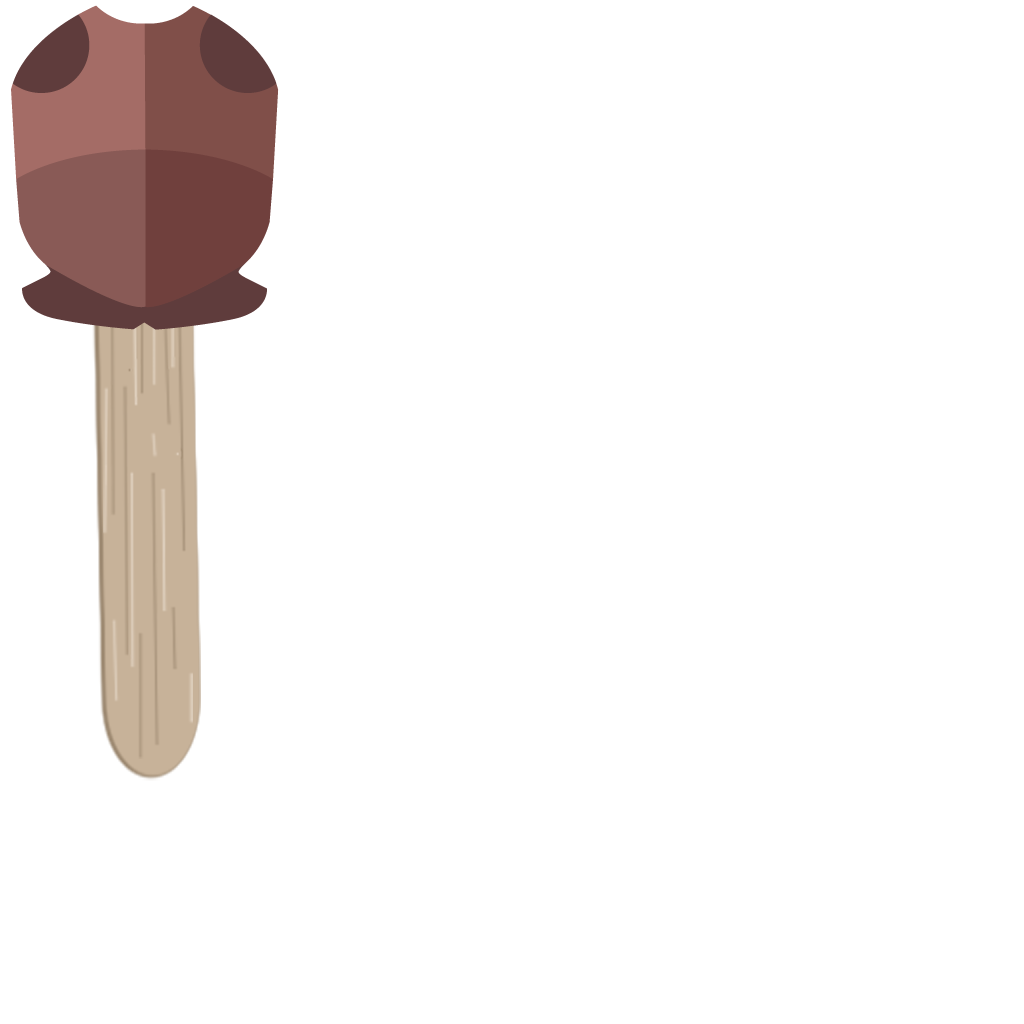
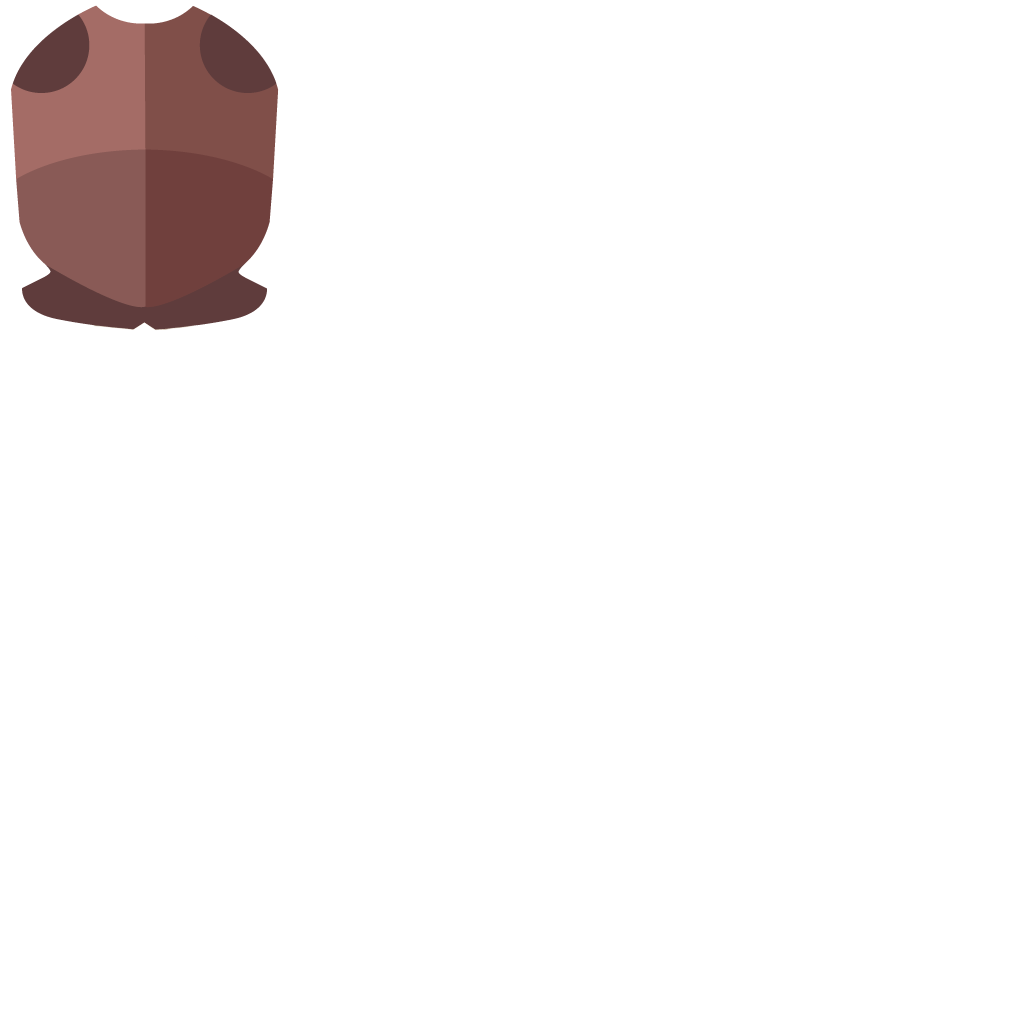
fixed up puppet white a bit

Changed region(s): [[0.0938, 0.3125, 0.2188, 0.7812]]

diff --git a/vox/Source/vox/src/PuppetCharacter.cpp b/vox/Source/vox/src/PuppetCharacter.cpp
@@ -86,6 +86,7 @@ void PuppetCharacter::init(){
 		);
 	}
 	
+	popsicleStick = new Box2DSprite(world, PuppetResourceManager::popsicleStick, b2_dynamicBody, false, nullptr, new Transform(), componentScale*texPack->scale);
 	head = new Box2DSprite(world, texPack->headTex, b2_dynamicBody, false, nullptr, new Transform(), componentScale*texPack->scale);
 	
 	
@@ -109,7 +110,8 @@ void PuppetCharacter::init(){
 	components.push_back(&whiteTorso);
 	components.push_back(&whiteArmLeft);
 	components.push_back(&whiteArmRight);
-
+	
+	components.push_back(&popsicleStick);
 	components.push_back(&armLeft);
 	components.push_back(&armRight);
 	components.push_back(&handLeft);
@@ -140,14 +142,15 @@ void PuppetCharacter::init(){
 	b2Fixture * testf = torso->body->CreateFixture(&test);
 	sf.groupIndex = groupIndex;
 
-	torso->createFixture	 (sf, b2Vec2(0.0f, -1.f), this);
-	armLeft->createFixture	 (sf, b2Vec2(0.0f, 0.0f), this);
-	armRight->createFixture	 (sf, b2Vec2(0.0f, 0.0f), this);
-	handLeft->createFixture  (sf, b2Vec2(0.0f, 0.0f), this);
-	handRight->createFixture (sf, b2Vec2(0.0f, 0.0f), this);
-	face->createFixture		 (sf, b2Vec2(0.0f, 0.0f), this);
-	headgear->createFixture	 (sf, b2Vec2(0.0f, 0.0f), this);
-	head->createFixture		 (sf, b2Vec2(0.0f, 0.0f), this);
+	torso->createFixture	 (sf, b2Vec2(0.f, -1.f), this);
+	popsicleStick->createFixture(sf, b2Vec2(0.f, -1.5f), this);
+	armLeft->createFixture	 (sf, b2Vec2(0.f, 0.f), this);
+	armRight->createFixture	 (sf, b2Vec2(0.f, 0.f), this);
+	handLeft->createFixture  (sf, b2Vec2(0.f, 0.f), this);
+	handRight->createFixture (sf, b2Vec2(0.f, 0.f), this);
+	face->createFixture		 (sf, b2Vec2(0.f, 0.f), this);
+	headgear->createFixture	 (sf, b2Vec2(0.f, 0.f), this);
+	head->createFixture		 (sf, b2Vec2(0.f, 0.f), this);
 
 	b2Filter whitesf;
 	whitesf.categoryBits = 0;
@@ -173,6 +176,19 @@ void PuppetCharacter::init(){
 	jth.lowerAngle = glm::radians(-15.f);
 	jth.upperAngle = glm::radians(15.f);
 	world->b2world->CreateJoint(&jth);
+	
+	{
+	// stick
+	b2RevoluteJointDef j;
+	j.bodyA = torso->body;
+	j.bodyB = popsicleStick->body;
+	j.localAnchorA.Set(0, 0);
+	j.localAnchorB.Set(0, 0);
+	j.collideConnected = false;
+	j.enableLimit = true;
+	j.referenceAngle = 0;
+	world->b2world->CreateJoint(&j);
+	}
 
 	// face
 	b2RevoluteJointDef jhf;
@@ -338,6 +354,8 @@ void PuppetCharacter::createIndicator(signed long _id){
 
 
 void PuppetCharacter::render(vox::MatrixStack* _matrixStack, RenderOptions* _renderOptions){
+	popsicleStick->render(_matrixStack, _renderOptions);
+
 	whiteHead->render(_matrixStack, _renderOptions);
 	whiteTorso->render(_matrixStack, _renderOptions);
 	whiteArmLeft->render(_matrixStack, _renderOptions);
@@ -374,15 +392,16 @@ void PuppetCharacter::render(vox::MatrixStack* _matrixStack, RenderOptions* _ren
 	tintShader->setRed(red + (1 - control) * 3);
 	tintShader->setGreen(green - (1 - control) * 3);
 	tintShader->setBlue(blue - (1 - control) * 3);
+	
+	if(dead){
+		alphaShader->setAlpha(0.5f);
+	}
 
 
 	// change the shader settings based on current damage and player id
 	hsvShader->setHue(newHue);
 	hsvShader->setSaturation(newSat);
 	
-	if(dead){
-		alphaShader->setAlpha(0.5f);
-	}
 
 	armLeft->render(_matrixStack, _renderOptions);
 	armRight->render(_matrixStack, _renderOptions);

diff --git a/vox/Source/vox/src/PuppetResourceManager.cpp b/vox/Source/vox/src/PuppetResourceManager.cpp
@@ -39,9 +39,10 @@ TextureSampler * PuppetResourceManager::stageSpotlight		= new TextureSampler("..
 TextureSampler * PuppetResourceManager::dustParticle = new TextureSampler("../assets/hurly-burly/", "dustParticle.png.def");
 std::vector<TextureSampler *> PuppetResourceManager::scoreParticles;
 
-TextureSampler * PuppetResourceManager::head1 = new TextureSampler("../assets/hurly-burly/", "Head1.png.def"); 
+TextureSampler * PuppetResourceManager::head = new TextureSampler("../assets/hurly-burly/", "Head1.png.def"); 
+TextureSampler * PuppetResourceManager::hand = new TextureSampler("../assets/hurly-burly/", "Hand1.png.def");
+TextureSampler * PuppetResourceManager::popsicleStick = new TextureSampler("../assets/hurly-burly/", "popsicleStick.png.def");
 std::vector<TextureSampler *> PuppetResourceManager::faces;
-TextureSampler * PuppetResourceManager::hand1 = new TextureSampler("../assets/hurly-burly/", "Hand1.png.def");
 
 
 TextureSampler * PuppetResourceManager::whiteHead = new TextureSampler("../assets/hurly-burly/white/", "head.png.def"); 
@@ -112,8 +113,9 @@ void PuppetResourceManager::init(){
 		resources.push_back(i);
 	}
 	
-	resources.push_back(head1);
-	resources.push_back(hand1);
+	resources.push_back(head);
+	resources.push_back(hand);
+	resources.push_back(popsicleStick);
 	
 	resources.push_back(whiteHead);
 	resources.push_back(whiteTorso);

diff --git a/vox/Source/vox/include/PuppetTexturePack.h b/vox/Source/vox/include/PuppetTexturePack.h
@@ -7,7 +7,7 @@ class TextureSampler;
 
 class PuppetTexturePack/* : public NodeResource*/{
 public:
-	PuppetTexturePack(TextureSampler * _torso = nullptr, TextureSampler * _armTex = nullptr, TextureSampler * _headgearTex = nullptr, TextureSampler * _headTex = PuppetResourceManager::head1, TextureSampler * _handTex = PuppetResourceManager::hand1, TextureSampler * _faceTex = PuppetResourceManager::getRandomFace(), float _scale = 1.0f);
+	PuppetTexturePack(TextureSampler * _torso = nullptr, TextureSampler * _armTex = nullptr, TextureSampler * _headgearTex = nullptr, TextureSampler * _headTex = PuppetResourceManager::head, TextureSampler * _handTex = PuppetResourceManager::hand, TextureSampler * _faceTex = PuppetResourceManager::getRandomFace(), float _scale = 1.0f);
 
 	TextureSampler * headTex;
 	TextureSampler * handTex;

diff --git a/vox/Source/vox/src/RaidTheCastle.cpp b/vox/Source/vox/src/RaidTheCastle.cpp
@@ -91,7 +91,7 @@ RaidTheCastle::RaidTheCastle(PuppetGame* _game):
 	addChild(champion, 0);
 	champion->addToLayeredScene(this, 1);
 	
-	champion->itemToPickup = new ItemFlail(world, PuppetGame::kITEM, PuppetGame::kPLAYER | PuppetGame::kGROUND, champion->groupIndex, 1, 0, -RaidTheCastleResourceManager::itemFlailGrip->height/2.f);
+	champion->itemToPickup = new ItemFlail(world, PuppetGame::kITEM, PuppetGame::kPLAYER | PuppetGame::kGROUND, champion->groupIndex, 10, 0, -RaidTheCastleResourceManager::itemFlailGrip->height/2.f);
 	addChild(champion->itemToPickup, 1);
 	champion->itemToPickup->addToLayeredScene(this, 1);
 	champion->itemToPickup->setShader(shader, true);

diff --git a/vox/Source/vox/include/PuppetResourceManager.h b/vox/Source/vox/include/PuppetResourceManager.h
@@ -35,9 +35,10 @@ public:
 	static std::vector<TextureSampler *> scoreParticles;
 	static TextureSampler * getRandomScoreParticles();
 
-	static TextureSampler * head1;
+	static TextureSampler * head;
+	static TextureSampler * hand;
+	static TextureSampler * popsicleStick;
 	static std::vector<TextureSampler *> faces;
-	static TextureSampler * hand1;
 	static TextureSampler * getRandomFace();
 	
 	static TextureSampler * whiteHead;

diff --git a/vox/Source/vox/include/PuppetCharacter.h b/vox/Source/vox/include/PuppetCharacter.h
@@ -38,6 +38,7 @@ public:
 
 	PuppetTexturePack * texPack;
 	
+	Box2DSprite * popsicleStick;
 	Box2DSprite * head;
 	Box2DSprite * torso;
 	Box2DSprite * armLeft;
